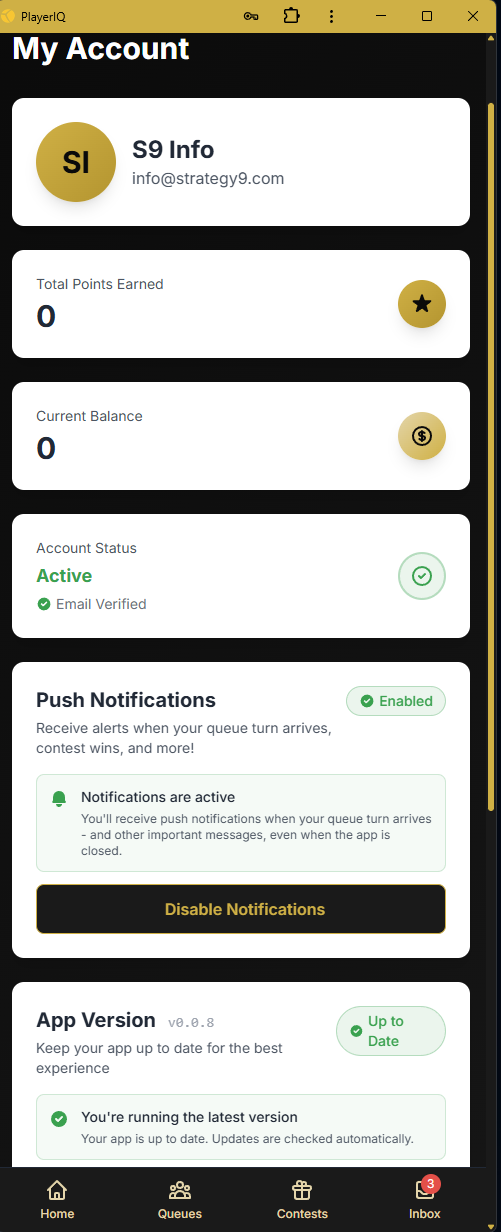
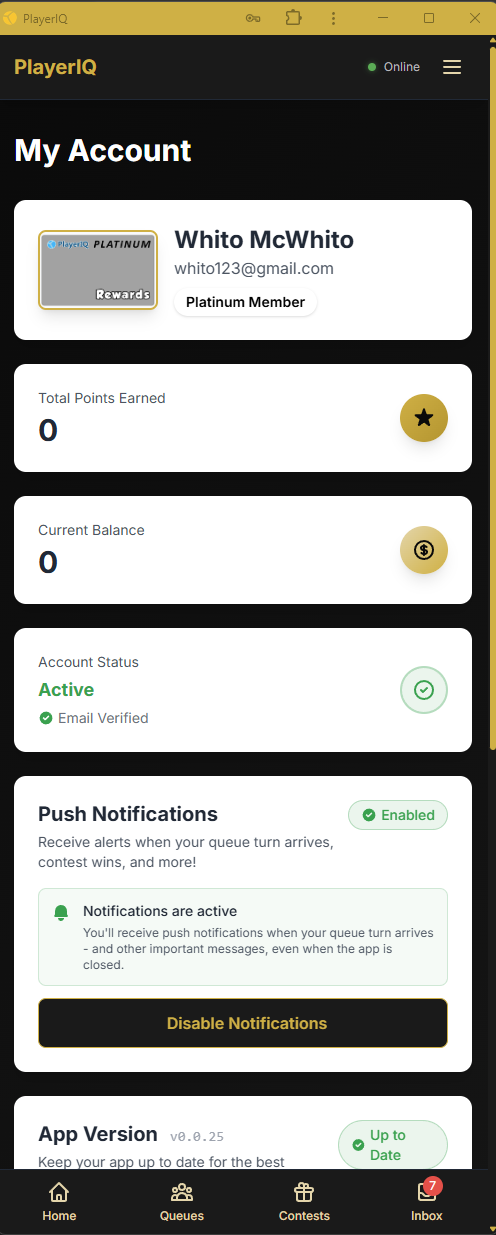
screenshot updates

diff --git a/index.html b/index.html
@@ -1957,6 +1957,31 @@
                     <h3>Personalized Dashboard</h3>
                     <p>Guests manage their account, view history, and access features</p>
                 </div>
+
+                <div class="screenshot-card">
+                    <div class="screenshot-wrapper">
+                        <img src="Winners.png" alt="Patron Dashboard" />
+                    </div>
+                    <h3>Instant Wins</h3>
+                    <p>Contests can award instant wins with real-time notifications</p>
+                </div>
+
+                <div class="screenshot-card">
+                    <div class="screenshot-wrapper">
+                        <img src="Account.png" alt="Patron Dashboard" />
+                    </div>
+                    <h3>Personalized Account View</h3>
+                    <p>Guests have access to their own personal information</p>
+                </div>
+
+                <div class="screenshot-card">
+                    <div class="screenshot-wrapper">
+                        <img src="Update.png" alt="Patron Dashboard" />
+                    </div>
+                    <h3>Live Updates</h3>
+                    <p>Guests can update email and mobile numbers</p>
+                </div>
+
             </div>
         </div>
     </section>
